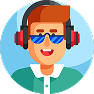
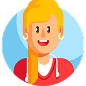
create profile update ui

diff --git a/lib/screens/profile.dart b/lib/screens/profile.dart
@@ -1,0 +1,67 @@
+import 'package:flutter/material.dart';
+import 'package:movies/app_theme.dart';
+import 'package:movies/components/custom_eleveted_button.dart';
+import 'package:movies/components/custom_text_form_feild.dart';
+
+class ProfileUpdateScreen extends StatelessWidget {
+  static const String routeName = '/profileupdate';
+  const ProfileUpdateScreen({super.key});
+
+  @override
+  Widget build(BuildContext context) {
+    return Scaffold(
+      appBar: AppBar(title: Text('Pick Avatar')),
+      body: SafeArea(
+        child: Padding(
+          padding: const EdgeInsets.symmetric(horizontal: 16),
+          child: Column(
+            children: [
+              ClipRRect(
+                borderRadius: BorderRadius.circular(50),
+                child: Image.asset(
+                  'assets/avatar/avatar1.png',
+                  height: 150,
+                  width: 150,
+                  fit: BoxFit.fill,
+                ),
+              ),
+              SizedBox(height: 16),
+              CustomTextFormField(
+                hintText: 'User Name',
+                iconPathName: 'profile',
+              ),
+              SizedBox(height: 16),
+              CustomTextFormField(
+                hintText: '01000000000',
+                iconPathName: 'phone',
+              ),
+              SizedBox(height: 16),
+
+              Align(
+                alignment: Alignment.centerLeft,
+                child: Text(
+                  'Reset Password',
+                  style: Theme.of(
+                    context,
+                  ).textTheme.titleLarge!.copyWith(color: AppTheme.white),
+                ),
+              ),
+              Spacer(),
+              CustomElevatedButton(
+                textElevatedButton: 'Delete Account',
+                onPressed: () {},
+                color: AppTheme.red,
+              ),
+              SizedBox(height: 16),
+              CustomElevatedButton(
+                textElevatedButton: 'Update Data',
+                onPressed: () {},
+              ),
+              SizedBox(height: 32),
+            ],
+          ),
+        ),
+      ),
+    );
+  }
+}

diff --git a/lib/components/localization_switch.dart b/lib/components/localization_switch.dart
@@ -28,7 +28,7 @@ class _LocalizationSwitchState extends State<LocalizationSwitch> {
         decoration: BoxDecoration(
           color: Colors.black,
           borderRadius: BorderRadius.circular(40),
-          border: Border.all(color: Colors.amber, width: 1),
+          border: Border.all(color: Colors.amber, width: 2),
         ),
         child: Row(
           mainAxisAlignment: MainAxisAlignment.spaceBetween,
@@ -47,7 +47,7 @@ class _LocalizationSwitchState extends State<LocalizationSwitch> {
       height: 45,
       decoration: BoxDecoration(
         shape: BoxShape.circle,
-        border: isSelected ? Border.all(color: Colors.amber, width: 4) : null,
+        border: isSelected ? Border.all(color: Colors.amber, width: 5) : null,
       ),
       clipBehavior: Clip.antiAlias,
       child: Image.asset(assetPath, fit: BoxFit.fill),

diff --git a/lib/auth/login_screen.dart b/lib/auth/login_screen.dart
@@ -5,6 +5,7 @@ import 'package:movies/auth/register_screen.dart';
 import 'package:movies/components/custom_eleveted_button.dart';
 import 'package:movies/components/custom_text_form_feild.dart';
 import 'package:movies/components/localization_switch.dart';
+import 'package:movies/screens/profile.dart';
 
 class LoginScreen extends StatelessWidget {
   static const String routeName = '/login';
@@ -52,7 +53,11 @@ class LoginScreen extends StatelessWidget {
 
                 CustomElevatedButton(
                   textElevatedButton: 'Login',
-                  onPressed: () {},
+                  onPressed: () {
+                    Navigator.of(
+                      context,
+                    ).pushNamed(ProfileUpdateScreen.routeName);
+                  },
                 ),
                 SizedBox(height: 16),
 

diff --git a/lib/main.dart b/lib/main.dart
@@ -1,10 +1,10 @@
-
-
+import 'package:flutter/material.dart';
 import 'package:movies/app_theme.dart';
 import 'package:movies/auth/forgot_password.dart';
 import 'package:movies/auth/login_screen.dart';
 import 'package:movies/auth/register_screen.dart';
 import 'package:movies/screens/home_screen.dart';
+import 'package:movies/screens/profile.dart';
 
 void main() {
   runApp(MoviesApp());
@@ -20,6 +20,7 @@ class MoviesApp extends StatelessWidget {
         LoginScreen.routeName: (context) => LoginScreen(),
         RegisterScreen.routeName: (context) => RegisterScreen(),
         ForgotPasswordScreen.routeName: (context) => ForgotPasswordScreen(),
+        ProfileUpdateScreen.routeName: (context) => ProfileUpdateScreen(),
       },
       initialRoute: LoginScreen.routeName,
       theme: AppTheme.lightTheme,

diff --git a/lib/components/custom_eleveted_button.dart b/lib/components/custom_eleveted_button.dart
@@ -5,17 +5,20 @@ class CustomElevatedButton extends StatelessWidget {
   final String textElevatedButton;
   final VoidCallback onPressed;
   final bool isLoading;
+  final Color color;
   const CustomElevatedButton({
     super.key,
     required this.textElevatedButton,
     required this.onPressed,
     this.isLoading = false,
+    this.color = AppTheme.primary,
   });
 
   @override
   Widget build(BuildContext context) {
     return ElevatedButton(
       style: ElevatedButton.styleFrom(
+        backgroundColor: color,
         fixedSize: Size(MediaQuery.sizeOf(context).width, 56),
       ),
       onPressed: onPressed,

diff --git a/lib/components/avatar_section.dart b/lib/components/avatar_section.dart
@@ -16,6 +16,9 @@ class _AvatarSectionState extends State<AvatarSection> {
     'assets/avatar/avatar4.png',
     'assets/avatar/avatar5.png',
     'assets/avatar/avatar6.png',
+    'assets/avatar/avatar7.png',
+    'assets/avatar/avatar8.png',
+    'assets/avatar/avatar9.png',
   ];
 
   int selectedIndex = 0;

diff --git a/lib/app_theme.dart b/lib/app_theme.dart
@@ -17,6 +17,8 @@ class AppTheme {
       backgroundColor: backgroundDark,
       foregroundColor: primary,
       centerTitle: true,
+      elevation: 0,
+      scrolledUnderElevation: 0,
     ),
 
     inputDecorationTheme: InputDecorationTheme(
